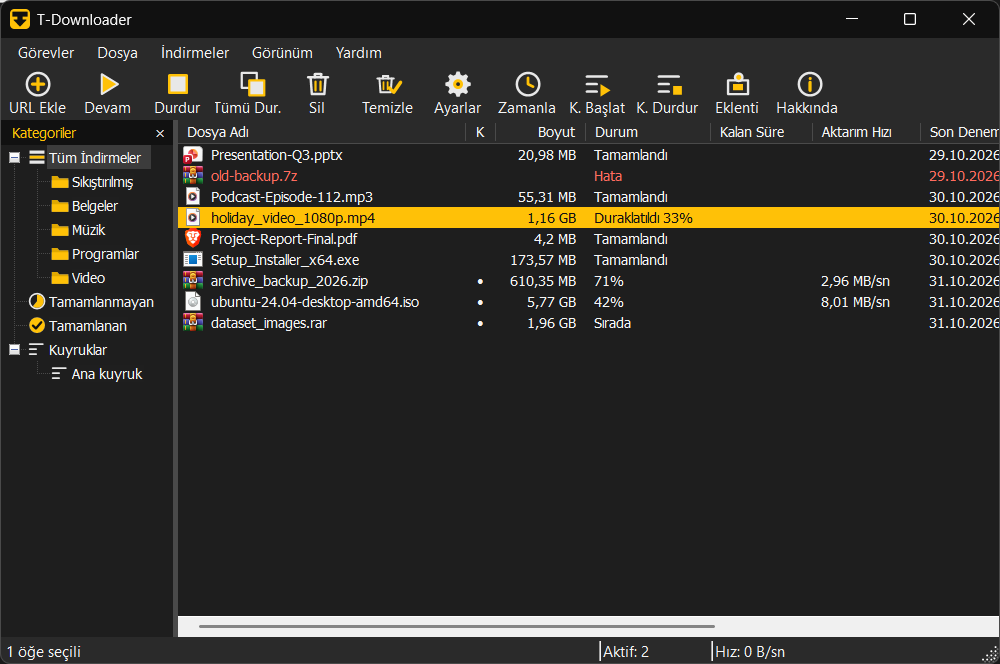
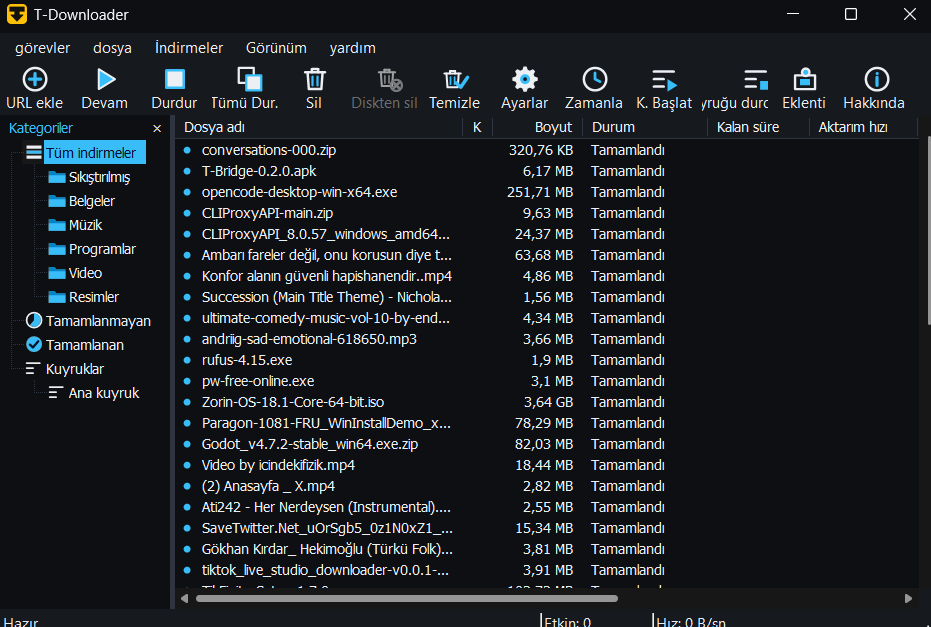
Vitrin: detaylı README ve güncel ekran görüntüleri

Changed region(s): [[0.0, 0.0, 1.0, 1.0], [0.8099, 0.3939, 0.9033, 0.4848], [0.9033, 0.0, 0.9345, 0.0303]]

diff --git a/README.md b/README.md
@@ -1,79 +1,136 @@
-<p align="center">
-  <img src="assets/logo.svg" alt="T-Downloader Logo" width="96" height="96" />
+<div align="center">
+
+<img src="assets/logo.svg" alt="T-Downloader Logo" width="96" height="96" />
+
+<h1>T-Downloader</h1>
+
+<p>
+  <strong>Büyük dosyaları ve web medyalarını paralel parçalara bölerek en yüksek hızda indiren modern Windows indirme yöneticisi ve Manifest V3 tarayıcı eklentisi.</strong>
 </p>
 
-<h1 align="center">T-Downloader</h1>
-<p align="center">🌐 <strong>Desteklenen Diller:</strong> Türkçe (TR) · English (EN) · Deutsch (DE)</p>
-
-<p align="center">
+<p>
   <a href="https://github.com/taha-sa/t-downloader-releases/releases/latest">
-    <img src="https://img.shields.io/github/v/release/taha-sa/t-downloader-releases?style=flat-square&label=Latest%20Release&color=gold" alt="Latest Release" />
+    <img src="https://img.shields.io/github/v/release/taha-sa/t-downloader-releases?style=for-the-badge&label=S%C3%BCr%C3%BCm&color=D97706" alt="Latest Release" />
   </a>
-  <img src="https://img.shields.io/badge/Platform-Windows%20%7C%20Chrome%20%7C%20Edge%20%7C%20Brave-blue?style=flat-square" alt="Platform" />
-  <img src="https://img.shields.io/badge/Diller-T%C3%BCrk%C3%A7e%20%7C%20English%20%7C%20Deutsch-blueviolet?style=flat-square" alt="Diller: Türkçe, English, Deutsch" />
+  <img src="https://img.shields.io/badge/Platform-Windows%20x64%20%7C%20Chrome%20%7C%20Edge%20%7C%20Brave-1F2937?style=for-the-badge" alt="Platform" />
+  <img src="https://img.shields.io/badge/Diller-TR%20%C2%B7%20EN%20%C2%B7%20DE-1F2937?style=for-the-badge" alt="Diller" />
   <a href="https://github.com/taha-sa/t-downloader-releases/releases">
-    <img src="https://img.shields.io/github/downloads/taha-sa/t-downloader-releases/total?style=flat-square&label=Downloads&color=success" alt="Downloads" />
+    <img src="https://img.shields.io/github/downloads/taha-sa/t-downloader-releases/total?style=for-the-badge&label=%C4%B0ndirme&color=059669" alt="Downloads" />
   </a>
 </p>
 
-> **Not:** Bu depo yalnızca resmi derlenmiş kurulum dosyalarını, güncelleyici manifestlerini ve doğrulama özetlerini barındırır.
+<p>
+  <a href="#-öne-çıkan-özellikler">Özellikler</a> •
+  <a href="#-indir-ve-kur">İndir & Kur</a> •
+  <a href="#-tarayıcı-eklentisi-kurulumu">Tarayıcı Eklentisi</a> •
+  <a href="#-gizlilik-ve-güvenlik">Güvenlik</a> •
+  <a href="#-t-suite-ekosistemi">T-Suite</a>
+</p>
+
+</div>
 
 <p align="center">
-  <img src="assets/screenshot.png" alt="Uygulama Ekran Görüntüsü" width="760" />
+  <img src="assets/screenshot.png" alt="T-Downloader Arayüzü" width="760" />
 </p>
 
+> **Not:** Bu depo yalnızca resmi derlenmiş Windows kurulum dosyasını, taşınabilir (portable) arşivi, Manifest V3 tarayıcı eklentisini ve `SHA-256` doğrulama özetlerini barındırır.
 
 ---
 
-## Ne İşe Yarar?
+## ✨ Öne Çıkan Özellikler
 
-**T-Downloader**, çok parçacıklı bağlantılarla yüksek hızlı dosya indirme sunan, tarayıcı eklentisiyle indirmeleri doğrudan yakalayan modern bir Windows indirme yöneticisidir.
+| Özellik | Detay |
+|---|---|
+| ⚡ **Çok Parçacıklı (Multi-Segment) Hızlandırma** | İndirmeleri paralel parçalara bölerek internet hattınızın tam kapasitesini kullanır; büyük arşivlerde ve ISO dosyalarında belirgin hız artışı sağlar. |
+| 🧩 **Tarayıcı Eklentisi (Chrome / Edge / Brave)** | Manifest V3 + Native Messaging Host mimarisiyle tarayıcı indirmelerini otomatik olarak T-Downloader'a aktarır; video oynatıcılarının üzerinde tek tıkla indirme düğmesi sunar. |
+| 🎬 **Video & HLS Akış İndirme** | HLS (`.m3u8`) akışlarını doğrudan ayrıştırır, çözünürlük/kalite seçimi sunar, oturum çerezlerini güvenle aktarır ve `yt-dlp` entegrasyonunu destekler. |
+| ⏯ **Duraklat, Devam Et & Kuyruk Yönetimi** | Bağlantı kopsa bile indirmeleri kaldığı yerden sürdürün; dosyaları kuyruklara ayırıp sırayla indirin. |
+| ⏰ **Akıllı Zamanlayıcı (Scheduler)** | İndirme kuyruklarını belirlediğiniz saatte otomatik başlatın veya durdurun. |
+| 🚦 **Hız Limiti & Disk Alanı Koruması** | Ağınızı kilitlememek için anlık hız sınırı koyun; hedef diskte yer azaldığında otomatik uyarı alın. |
+| 📂 **Otomatik Kategorilendirme** | İndirilen dosyaları otomatik olarak *Sıkıştırılmış, Belgeler, Müzik, Programlar, Video ve Resimler* klasörlerine ayırır. |
+| 🔐 **Dahili SHA-256 / Hash Doğrulama** | İndirdiğiniz dosyaların bütünlüğünü harici araç gerekmeden doğrudan uygulama içinden kontrol edin. |
+| 🌙 **Tam Koyu Arayüz & İmzalı Güncelleme** | Göz yormayan koyu tema, ECDSA imzalı uygulama içi güncelleyici ve **T-Bridge Hub** entegrasyonu. |
 
 ---
 
 ## 📥 İndir ve Kur
 
-👉 **[En Son Sürümü İndir (Latest Release)](https://github.com/taha-sa/t-downloader-releases/releases/latest)**
+### 👉 [En Son Sürümü İndir (Latest Release)](https://github.com/taha-sa/t-downloader-releases/releases/latest)
 
 | Dosya | Açıklama | Platform |
 |---|---|---|
-| \T-Downloader-Setup-1.2.0.exe\ | **Önerilen** Windows kurulum dosyası (Native Messaging Host dahil) | Windows x64 |
-| \T-Downloader-Extension-1.2.0.zip\ | Chrome / Brave / Edge tarayıcı eklentisi (Manifest V3) | Tarayıcı |
-| \T-Downloader.zip\ | Taşınabilir paket ve otomatik güncelleyici arşivi | Windows x64 |
-| \SHA256SUMS.txt\ | Bütünlük doğrulama özetleri (SHA-256) | Tümü |
+| `T-Downloader-Setup-1.2.0.exe` | Resmi Windows kurulum paketi (Native Host kaydı dahil) | Windows 10/11 (x64) |
+| `T-Downloader.zip` | Kurulumsuz taşınabilir (Portable) sürüm | Windows 10/11 (x64) |
+| `T-Downloader-Extension-1.2.0.zip` | Tarayıcı eklentisi (Manifest V3) | Chrome, Edge, Brave |
+| `SHA256SUMS.txt` | Bütünlük doğrulama özetleri | Tümü |
 
-### Adım Adım Kurulum (EXE + Tarayıcı Eklentisi)
-1. **Masaüstü Uygulaması:** \T-Downloader-Setup-1.2.0.exe\ dosyasını indirip kurun. Kurulum sihirbazı \TDownloader.exe\ ve Tarayıcı Native Messaging Host kaydını otomatik olarak yapar.
-2. **Tarayıcı Eklentisi (Chrome / Brave / Edge):**
-   - \T-Downloader-Extension-1.2.0.zip\ dosyasını indirip kalıcı bir klasöre çıkarın.
-   - Tarayıcınızda \chrome://extensions\ (veya \edge://extensions\ / \rave://extensions\) adresini açın.
-   - Sağ üstten **Geliştirici Modu (Developer Mode)** anahtarını açın.
-   - **Paketsiz öğe yükle (Load unpacked)** butonuna tıklayıp çıkardığınız klasörü seçin.
-3. **SmartScreen Notu:** İlk çalıştırmada *"Windows bilgisayarınızı korudu"* uyarısı görürseniz **Ek bilgi → Yine de çalıştır** seçeneğini kullanın.
+---
+
+## 🌐 Tarayıcı Eklentisi Kurulumu
+
+T-Downloader'ın tarayıcı indirmelerini otomatik yakalaması için masaüstü uygulamasını kurduktan sonra eklentiyi ekleyin:
+
+1. `T-Downloader-Extension-1.2.0.zip` dosyasını indirip sabit bir klasöre çıkarın.
+2. Tarayıcınızda uzantılar sayfasını açın:
+   - Chrome / Brave: `chrome://extensions`
+   - Edge: `edge://extensions`
+3. Sağ üstten **Geliştirici modu (Developer mode)** anahtarını açın.
+4. **Paketlenmemiş öğe yükle (Load unpacked)** düğmesine basıp çıkardığınız eklenti klasörünü seçin.
+
+<details>
+<summary><strong>📌 Kurulum Notları & SHA-256 Doğrulama</strong></summary>
+
+<br/>
+
+- **Windows SmartScreen:** İlk kurulumda uyarı ekranı çıkarsa **Ek bilgi → Yine de çalıştır** seçeneğini kullanabilirsiniz.
+- **Taşınabilir Sürüm:** `T-Downloader.zip` dosyasını çıkarıp doğrudan `TDownloader.exe` dosyasını çalıştırabilirsiniz.
+
+```powershell
+Get-FileHash .\T-Downloader-Setup-1.2.0.exe -Algorithm SHA256
+# Çıktıyı sürüm sayfasındaki SHA256SUMS.txt ile karşılaştırın.
+```
+
+</details>
 
 ---
 
 ## 💻 Sistem Gereksinimleri
 
-- **İşletim Sistemi:** Windows 10 / 11 (64-bit)
-- **Çalışma Zamanı:** .NET 10 Desktop Runtime (yoksa kurulumda yönlendirilir)
-- **Tarayıcı:** Chromium tabanlı (Chrome, Brave, Edge — Manifest V3)
-
-## 🔒 Gizlilik
-
-- **Telemetri yok:** Kullanım verisi, analitik veya izleme kodu içermez.
-- **Veriler cihazda kalır:** Tüm işlemler yerel olarak cihazınızda gerçekleşir.
+- **İşletim Sistemi:** Windows 10 veya Windows 11 (64-bit)
+- **Desteklenen Tarayıcılar:** Google Chrome, Microsoft Edge, Brave ve Chromium tabanlı tarayıcılar
+- **Arayüz Dilleri:** Türkçe (TR) · English (EN) · Deutsch (DE)
 
 ---
 
-## 🧩 T-Suite Ailesi
+## 🔒 Gizlilik ve Güvenlik
 
-T-Suite, günlük masaüstü ve mobil iş akışları için geliştirilmiş hafif, reklamsız ve gizlilik odaklı araçlar ekosistemidir:
+- **Sıfır Telemetri:** İndirdiğiniz bağlantılar, dosya geçmişiniz veya tarayıcı etkinliğiniz hiçbir harici sunucuya gönderilmez.
+- **İmzalı Güncellemeler:** Uygulama içi güncellemeler ECDSA imzası ve SHA-256 özeti doğrulanmadan uygulanmaz.
+- **Reklamsız & Temiz:** Ek yazılım, reklam penceresi veya arka plan izleyici içermez.
+
+---
+
+## 🧩 T-Suite Ekosistemi
 
 | Uygulama | Ne İşe Yarar? | Platform | Sürüm Deposu |
 |---|---|---|---|
-| **T-Bridge** | Windows ve Android arası dosya, pano ve bildirim köprüsü | Windows, Android | [taha-sa/t-bridge-releases](https://github.com/taha-sa/t-bridge-releases) |
-| **T-Downloader** | Çok parçacıklı hızlı indirme yöneticisi + tarayıcı eklentisi | Windows, Chrome/Edge/Brave | [taha-sa/t-downloader-releases](https://github.com/taha-sa/t-downloader-releases) |
-| **T-RamCash** | Hafif RAM temizleme ve canlı bellek izleme aracı | Windows | [taha-sa/t-ramcash-releases](https://github.com/taha-sa/t-ramcash-releases) |
-| **T-DeskTree** | Hızlı disk ve klasör ağacı tarayıcısı / analiz aracı | Windows | [taha-sa/t-desktree-releases](https://github.com/taha-sa/t-desktree-releases) |
-| **T-Desk Viewer** | Hızlı ve hafif mobil PDF görüntüleyici | Android | [taha-sa/tdesk-viewer-releases](https://github.com/taha-sa/tdesk-viewer-releases) |
+| **T-Bridge** | Windows & Android arası dosya, pano, bildirim, kumanda ve T-Suite Hub | Windows, Android | [taha-sa/t-bridge-releases](https://github.com/taha-sa/t-bridge-releases) |
+| **T-Downloader** *(bu depo)* | Çok parçacıklı indirme yöneticisi + video/HLS + tarayıcı eklentisi | Windows, Chrome/Edge/Brave | [taha-sa/t-downloader-releases](https://github.com/taha-sa/t-downloader-releases) |
+| **T-DeskTree** | NTFS MFT ultra hızlı disk & klasör analizi + Treemap | Windows | [taha-sa/t-desktree-releases](https://github.com/taha-sa/t-desktree-releases) |
+| **T-RamCash** | 5 katmanlı RAM temizleyici ve canlı sistem tepsisi izleyici | Windows | [taha-sa/t-ramcash-releases](https://github.com/taha-sa/t-ramcash-releases) |
+| **T-Desk Viewer** | PDF, Office, EPUB, Kod & ZIP mobil belge görüntüleyici | Android | [taha-sa/tdesk-viewer-releases](https://github.com/taha-sa/tdesk-viewer-releases) |
+
+<details>
+<summary><strong>🇬🇧 English Summary</strong></summary>
+
+<br/>
+
+**T-Downloader** is a fast, ad-free multi-segment download manager for Windows paired with a Manifest V3 browser extension for Chrome, Edge, and Brave. Features parallel acceleration, HLS/video stream capture, pause/resume queues, scheduler, speed limiter, auto-categorization, built-in SHA-256 verification, and signed in-app updates. Zero telemetry; available in Turkish, English, and German.
+
+</details>
+
+---
+
+<p align="center">
+  Hata bildirimi veya özellik önerisi için <a href="https://github.com/taha-sa/t-downloader-releases/issues">Issues</a> sekmesini kullanabilirsiniz · <a href="https://github.com/taha-sa">T-Suite Ekosistemi</a>
+</p>
